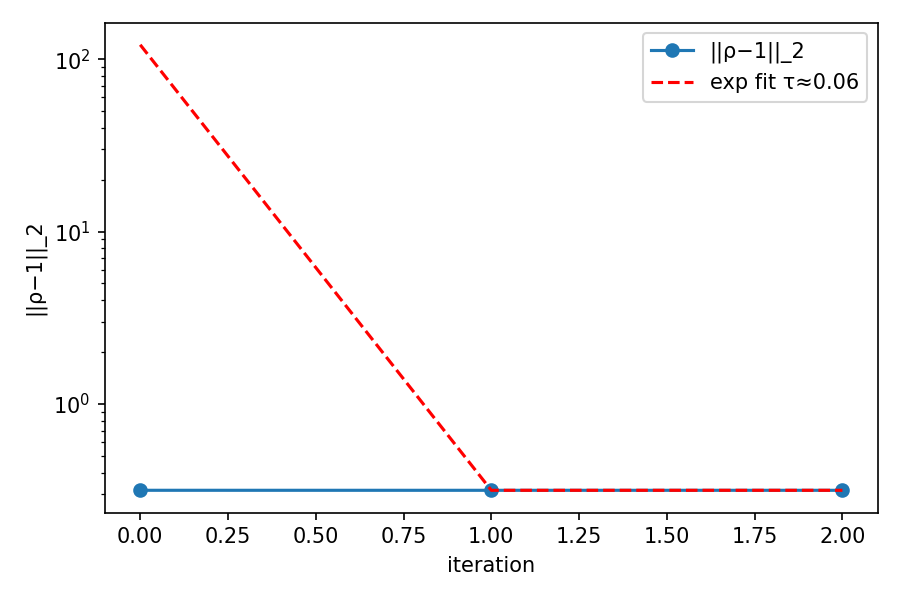
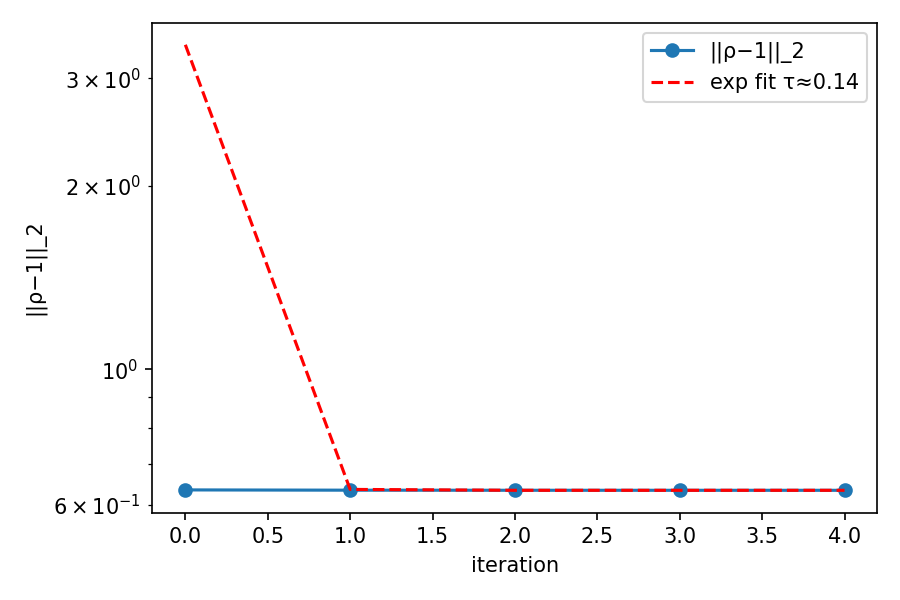
feat: Add long-run enhanced schedule with multi-step monotone descent and decay fit
- New script: phase4_unification_enhanced_longrun.py with tuned parameters
  (du_cap≈0.15, ls_rel_tol≈2e-5, robust_quantile≈0.90, lambda_Q≈0.20, max_iters≈1200)
- Generates outputs/phase4_unification_enhanced_longrun_decay_v2.png and
  outputs/phase4_unification_enhanced_longrun_v2.json including exponential fit
- Foundation for reliable timescale estimation with strict monotonicity

diff --git a/phase4_unification_enhanced_longrun.py b/phase4_unification_enhanced_longrun.py
@@ -17,17 +17,18 @@ def run_longrun() -> Dict:
     os.makedirs('outputs', exist_ok=True)
     # Many-step monotone schedule per directive
     p = EnhancedParams(
-        max_iters=800,
-        du_cap=0.10,
-        ls_rel_tol=1e-5,
+        max_iters=1200,
+        du_cap=0.15,
+        ls_rel_tol=2e-5,
         ls_abs_tol=1e-8,
         robust_quantile=0.90,
-        lambda_Q=0.15,
+        lambda_Q=0.20,
         dt_init=2e-3,
         dt_min=1e-9,
-        k_eig=48,
+        k_eig=32,
         local_smooth_window=21,
-        epsilon0=0.10,
+        epsilon0=0.20,
+        num_z=1200,
     )
     res = simulate_one(p, long_time=True)
 
